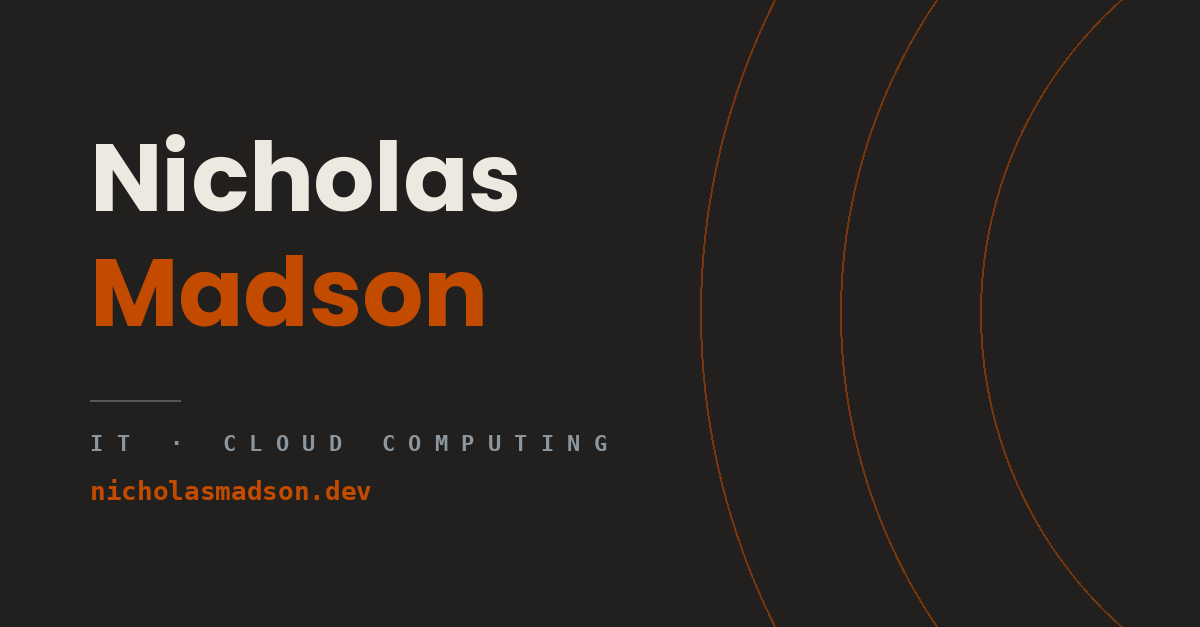
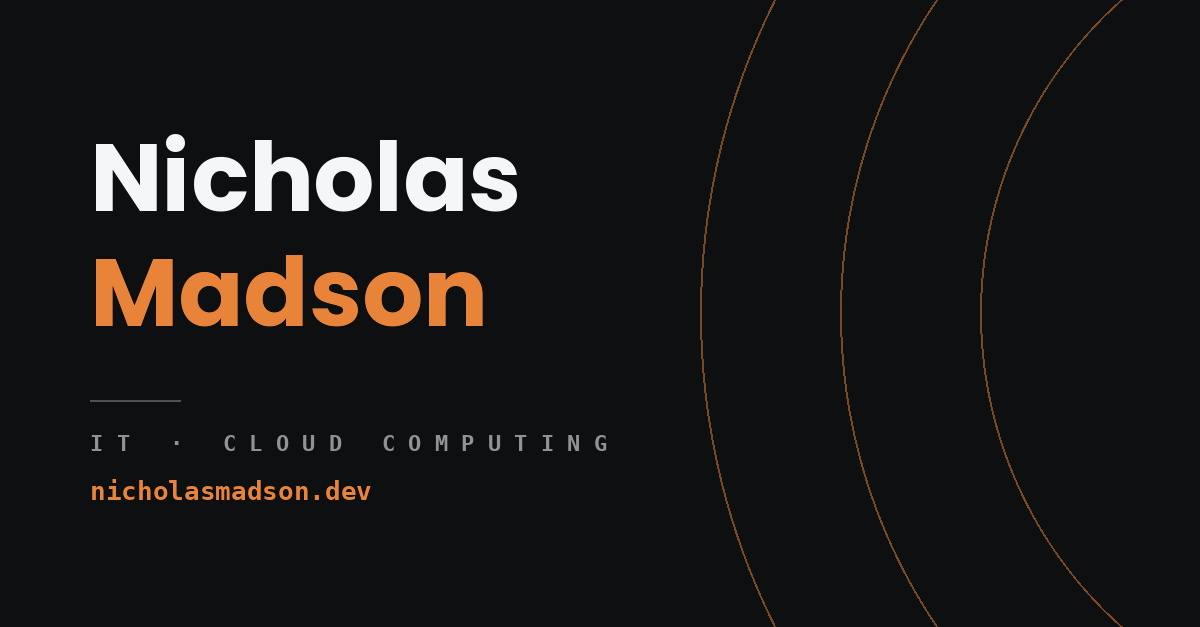
color theme edits, add images for MRA

Changed region(s): [[0.0617, 0.3939, 0.4008, 0.5455], [0.0617, 0.7576, 0.3083, 0.8182]]

diff --git a/website/index.html b/website/index.html
@@ -27,17 +27,17 @@
 
     /* ── LIGHT MODE ── */
     html.light {
-      --bg:          #f4f5f7;
-      --sidebar-bg:  #ffffff;
-      --surface:     #ffffff;
-      --surface2:    #eef0f3;
-      --border:      #dde1e8;
-      --accent:      #d06a20;
-      --accent-dim:  rgba(208,106,32,0.08);
-      --accent-glow: rgba(208,106,32,0.2);
-      --text:        #3a3f4a;
-      --heading:     #1a1d24;
-      --muted:       #8a92a0;
+      --bg:          #f2f5f8;
+      --sidebar-bg:  #fbfcfd;
+      --surface:     #fbfcfd;
+      --surface2:    #e9eef3;
+      --border:      #d7dfe8;
+      --accent:      #c2621d;
+      --accent-dim:  rgba(194,98,29,0.08);
+      --accent-glow: rgba(194,98,29,0.2);
+      --text:        #3b434e;
+      --heading:     #141a22;
+      --muted:       #828d9b;
     }
 
     /* ── THEME TOGGLE ── */
@@ -550,6 +550,15 @@
 
     footer a { color: var(--accent); text-decoration: none; }
 
+    .footer-credit {
+      text-align: right;
+      font-family: var(--mono);
+      font-size: 12px;
+      color: var(--muted);
+      letter-spacing: 0.03em;
+      margin-top: 20px;
+    }
+
     @media (max-width: 900px) {
       .layout { grid-template-columns: 1fr; }
       .sidebar { position: static; height: auto; }
@@ -588,7 +597,7 @@
       height: 940px;
       pointer-events: none;
       z-index: 0;
-      opacity: 0.55;
+      opacity: 1;
     }
 
     .main { position: relative; }
@@ -596,7 +605,9 @@
     .sidebar { z-index: 2; }
 
     @media (max-width: 900px) {
-      .arcs { top: -120px; right: -300px; width: 520px; height: 760px; opacity: 0.4; }
+      /* position/size only - opacity inherits the base rule so arc
+         weight stays identical to desktop */
+      .arcs { top: -120px; right: -300px; width: 520px; height: 760px; }
     }
 
     /* ═══════════════════════════════════════════════════
@@ -611,8 +622,9 @@
 
     .sidebar-role {
       font-family: var(--mono);
-      font-size: 10.5px;
-      font-weight: 400;
+      font-size: 12px;
+      font-weight: 500;
+      line-height: 1.95;
       color: var(--muted);
       text-transform: uppercase;
       letter-spacing: 0.28em;
@@ -674,6 +686,54 @@
     .project-stack { letter-spacing: 0.03em; font-size: 11.5px; }
     .card-meta, .project-meta { font-size: 12px; letter-spacing: 0.02em; }
 
+
+    /* ═══════════════════════════════════════════════════
+       PROJECT SHOTS — justified single row.
+
+       Each <a> gets flex-grow equal to its image's aspect
+       ratio (set inline as --ar). Widths then distribute
+       proportionally, which makes every image resolve to
+       the SAME height automatically, at any container
+       width. Never wraps; shrinks together on narrow
+       screens. max-width caps the height at ~330px.
+       ═══════════════════════════════════════════════════ */
+    .project-shots {
+      display: flex;
+      flex-wrap: nowrap;
+      align-items: flex-start;
+      gap: 8px;
+      margin-left: 22px;
+      margin-top: 14px;
+      max-width: 1060px;
+    }
+
+    .project-shots a {
+      flex: var(--ar) 1 0;
+      min-width: 0;
+      display: block;
+      line-height: 0;
+    }
+
+    .project-shots img {
+      width: 100%;
+      height: auto;
+      display: block;
+      border-radius: 5px;
+      border: 1px solid var(--border);
+      cursor: zoom-in;
+      transition: border-color 0.25s, opacity 0.25s;
+    }
+
+    .project-shots a:hover img {
+      border-color: var(--accent);
+      opacity: 0.9;
+    }
+
+    @media (max-width: 900px) {
+      .project-shots { gap: 5px; }
+      .project-shots img { border-radius: 4px; }
+    }
+
   </style>
 <meta property="og:title" content="Nicholas Madson – IT · Cloud Computing" />
 <meta property="og:description" content="IT Technician building toward Cloud Engineering. MSP experience, AWS certs, homelab projects." />
@@ -702,10 +762,10 @@
 
 <!-- Fixed background arc motif -->
 <svg class="arcs" viewBox="0 0 640 940" fill="none" aria-hidden="true">
-  <circle cx="580" cy="450" r="255" stroke="var(--accent)" stroke-width="1" opacity="0.22"/>
-  <circle cx="580" cy="450" r="340" stroke="var(--accent)" stroke-width="1" opacity="0.16"/>
-  <circle cx="580" cy="450" r="425" stroke="var(--accent)" stroke-width="1" opacity="0.11"/>
-  <circle cx="580" cy="450" r="510" stroke="var(--accent)" stroke-width="1" opacity="0.07"/>
+  <circle cx="580" cy="450" r="255" stroke="var(--accent)" stroke-width="1.5" opacity="0.28"/>
+  <circle cx="580" cy="450" r="340" stroke="var(--accent)" stroke-width="1.5" opacity="0.21"/>
+  <circle cx="580" cy="450" r="425" stroke="var(--accent)" stroke-width="1.5" opacity="0.14"/>
+  <circle cx="580" cy="450" r="510" stroke="var(--accent)" stroke-width="1.5" opacity="0.09"/>
 </svg>
 
 <div class="layout">
@@ -717,7 +777,7 @@
     <div id="ph" class="profile-placeholder">👤</div>
 
     <div class="sidebar-name">Nicholas <span>Madson</span></div>
-    <div class="sidebar-role">IT Technician · Cloud Computing Student</div>
+    <div class="sidebar-role">Information Technology<br/>Cloud Computing</div>
 
     <div class="contact-links">
       <a href="mailto:nicholasmads14@gmail.com" class="contact-link">
@@ -862,12 +922,12 @@
             <div class="project-title">Cloud Resume Challenge</div>
             <div class="project-meta">Feb 2026 – Present</div>
           </div>
-          <div class="project-stack">S3 · CloudFront · Route 53 · ACM · Lambda · DynamoDB · API Gateway · Terraform · GitHub Actions</div>
+          <div class="project-stack">S3 · CloudFront · Route 53 · ACM · Lambda · DynamoDB · API Gateway · GitHub Actions</div>
           <ul>
             <li>Built and deployed this resume using S3 static hosting, CloudFront CDN, and Route 53 with a custom domain</li>
             <li>Provisioned SSL certificate via ACM with HTTPS enforced at the CloudFront layer</li>
             <li>Implemented serverless visitor counter: API Gateway → Lambda → DynamoDB</li>
-            <li>Infrastructure as Code with Terraform; automated deployments via GitHub Actions CI/CD</li>
+            <li>Automated deployments via GitHub Actions CI/CD</li>
           </ul>
           <div>
             <a href="https://github.com/NicholasMads14/cloud-resume-challenge" target="_blank" class="project-link">
@@ -901,6 +961,11 @@
               GitHub
             </a>
           </div>
+        </div>
+        <div class="project-shots">
+          <a style="--ar:0.512" onclick="openLightbox('mra-Rank.jpg')"><img src="mra-Rank.jpg" alt="Movie Ranking App — tier ranking view on mobile" /></a>
+          <a style="--ar:0.535" onclick="openLightbox('mra-Reorder.jpg')"><img src="mra-Reorder.jpg" alt="Movie Ranking App — drag-and-drop reordering" /></a>
+          <a style="--ar:2.118" onclick="openLightbox('mra-Everyone.jpg')"><img src="mra-Everyone.jpg" alt="Movie Ranking App — compare-everyone view" /></a>
         </div>
       </div>
 
@@ -953,6 +1018,7 @@
         &nbsp;·&nbsp;
         <a href="https://www.linkedin.com/in/nicholasmads14/" target="_blank">LinkedIn</a>
       </p>
+      <div class="footer-credit">&copy; 2026 Nicholas Madson</div>
     </footer>
 
   </main>
